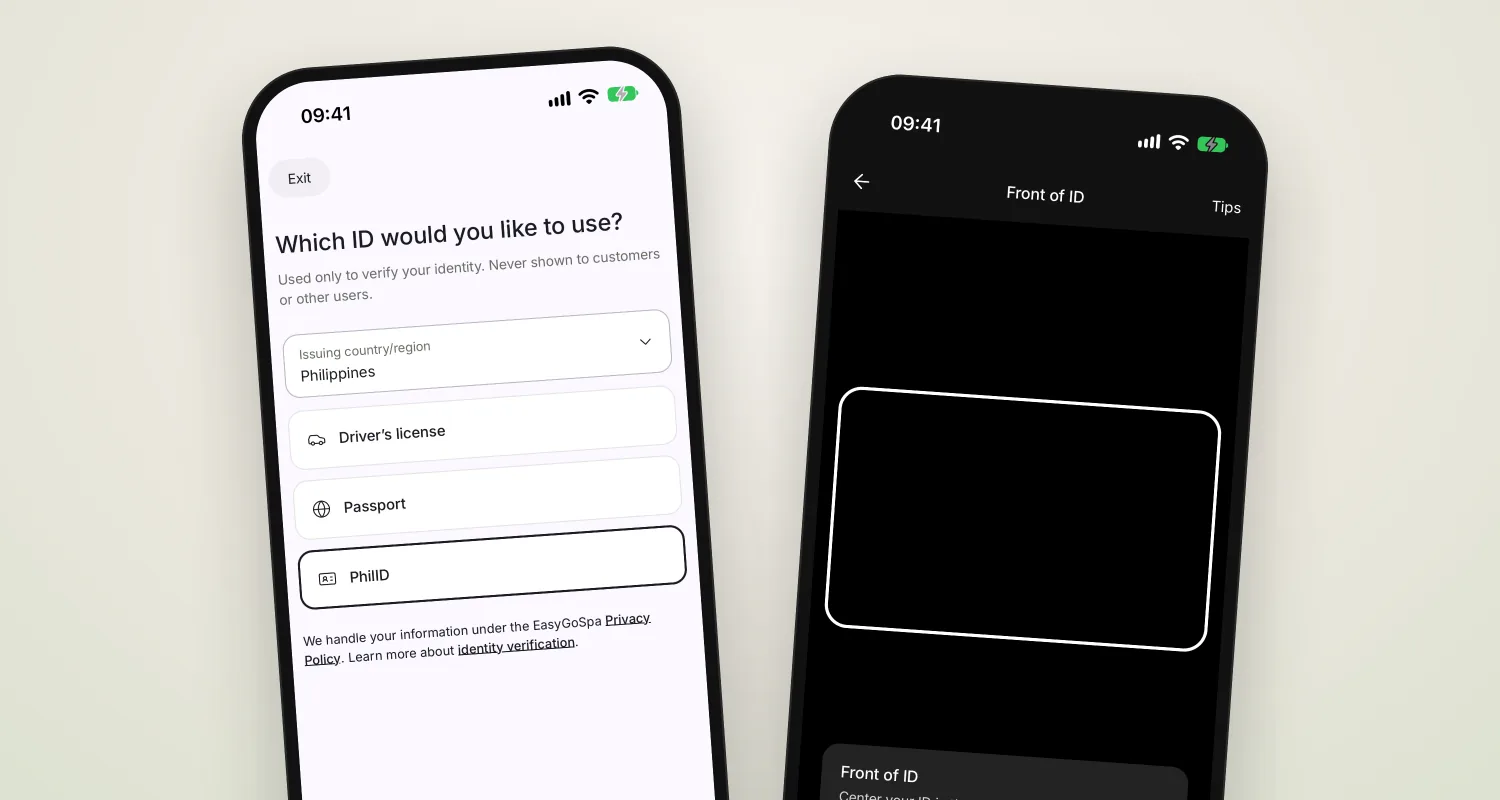
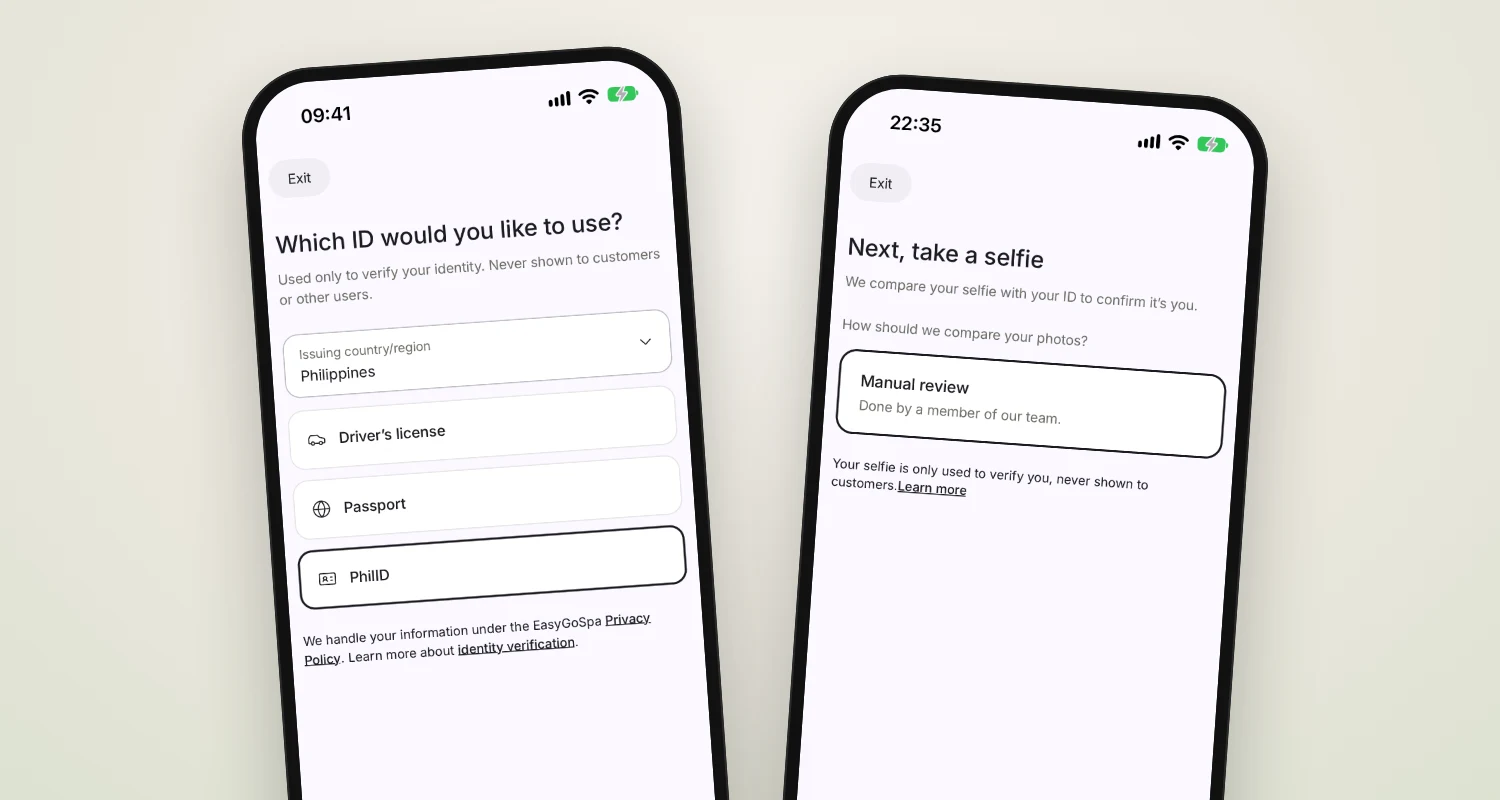
fix(技师页): 进度卡换 App 订单进度页真截图、实名卡换选证件+自拍人脸比对、评分卡换 Mia 最甜的笑
老板 11-11「随时知道多久到 不也是app里面现成的么？评分的这个笑容不甜美…认证这个有人脸识别的，为什么黑屏了？」
- 实时进度：App 订单进度页（Mia 已出发 · 预计几点到 · 1.0 km · 给 Mia 发消息），主窗口用调试包演示单截的，中文页用中文图其他用英文图
- 身份已核验：选证件 + 自拍人脸比对开始页两部手机；拍证件取景页（模拟器没摄像头是黑的）撤掉；文案写上自拍和证件做人脸比对，小标签「真实姓名」换「人脸比对」
- 客人评分：Mia 脸部特写定稿照
- 七种语言图片说明跟着换

Changed region(s): [[0.5213, 0.0938, 0.8587, 1.0]]

diff --git a/src/app/[locale]/team/page.jsx b/src/app/[locale]/team/page.jsx
@@ -9,11 +9,14 @@ import { alternatesFor } from '@/i18n/routing';
 // 11-11 老板「我们要用我们的mia来展示」：图换成我们的 AI 技师 Mia（开场片里截的帧：搓精油、门口、微笑），顶上大图也是 Mia；
 // 「身份已核验」用 App 里技师上传证件那一页的真截图（老板「在app 技师上传id的那个 界面啊」）；
 // 「始终身穿制服」那张撤掉（老板「不一定穿制服 你最好换个说法」），换成 App 真有的「随时知道技师多久到」（实时距离、接单后直接发消息）。
+// 11-11 晚老板「随时知道多久到 不也是app里面现成的么？评分的这个笑容不甜美…认证这个有人脸识别的，为什么黑屏了？」→
+// 实名卡换成「选证件 + 自拍人脸比对」两页（拍证件那页模拟器没摄像头是黑的，不用）；进度卡换成 App 订单进度页真截图；评分卡换成 Mia 脸部特写定稿照（笑得最甜那张）。
+// App 截图只有中文和英文两种：中文页用中文图，其他语言用英文图
+const appShot = (name) => (locale) => `/global/photos/${name}-${locale.startsWith('zh') ? 'zh' : 'en'}.webp`;
 const CARDS = [
   { key: 'trained', src: '/global/photos/team-trained.webp', chips: ['Swedish Massage', 'Deep tissue', 'Thai Body Massage', 'Hot Stone Massage'] },
-  // 截图只有中文和英文两种（主窗口 11-11 在模拟器截的正式页面）：中文页用中文图，其他语言用英文图
-  { key: 'verified', src: (locale) => `/global/photos/team-verified-${locale.startsWith('zh') ? 'zh' : 'en'}.webp`, chips: ['id', 'photo', 'name'] },
-  { key: 'arrival', src: '/global/photos/team-arrival.webp', chips: ['eta', 'chat'] },
+  { key: 'verified', src: appShot('team-verified'), chips: ['id', 'face', 'photo'] },
+  { key: 'arrival', src: appShot('team-arrival'), chips: ['eta', 'chat'] },
   { key: 'rated', src: '/global/photos/team-rated.webp', chips: ['stars', 'profile'] },
 ];
 
